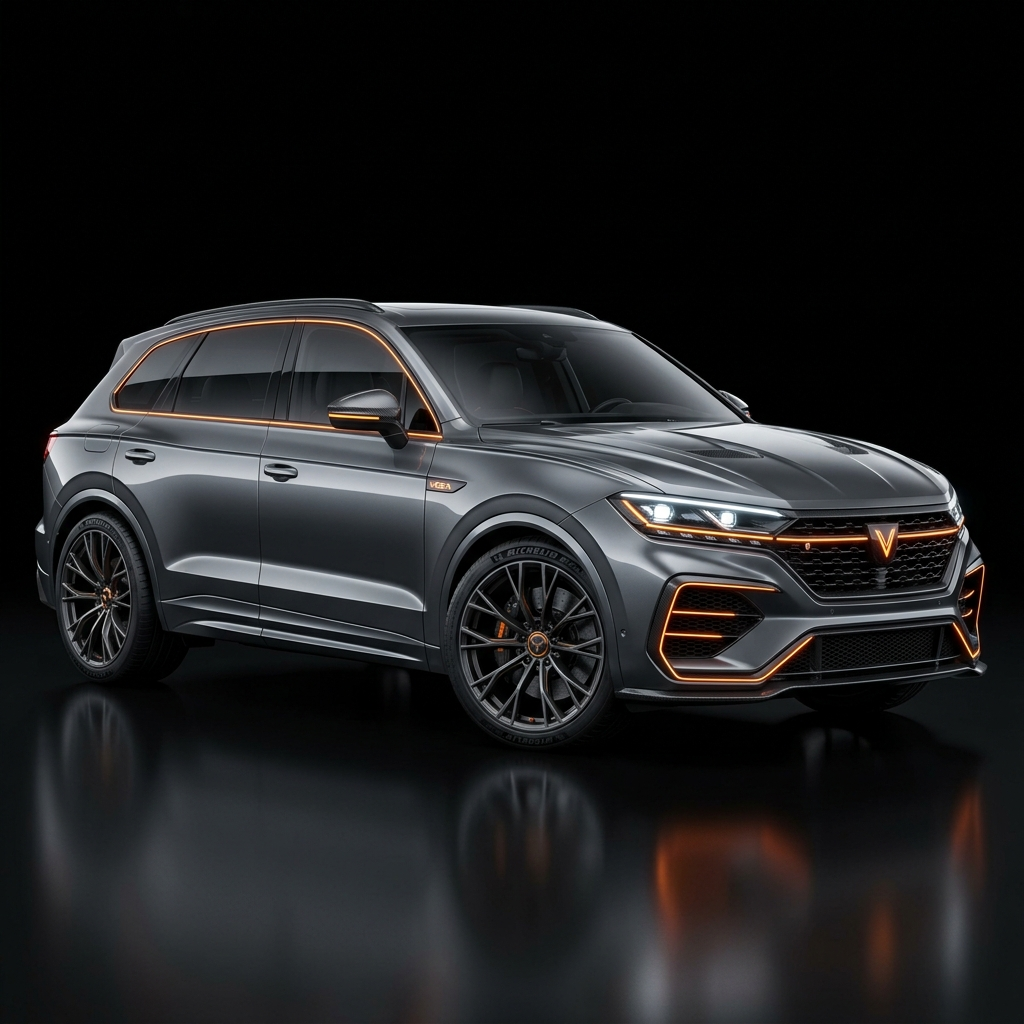
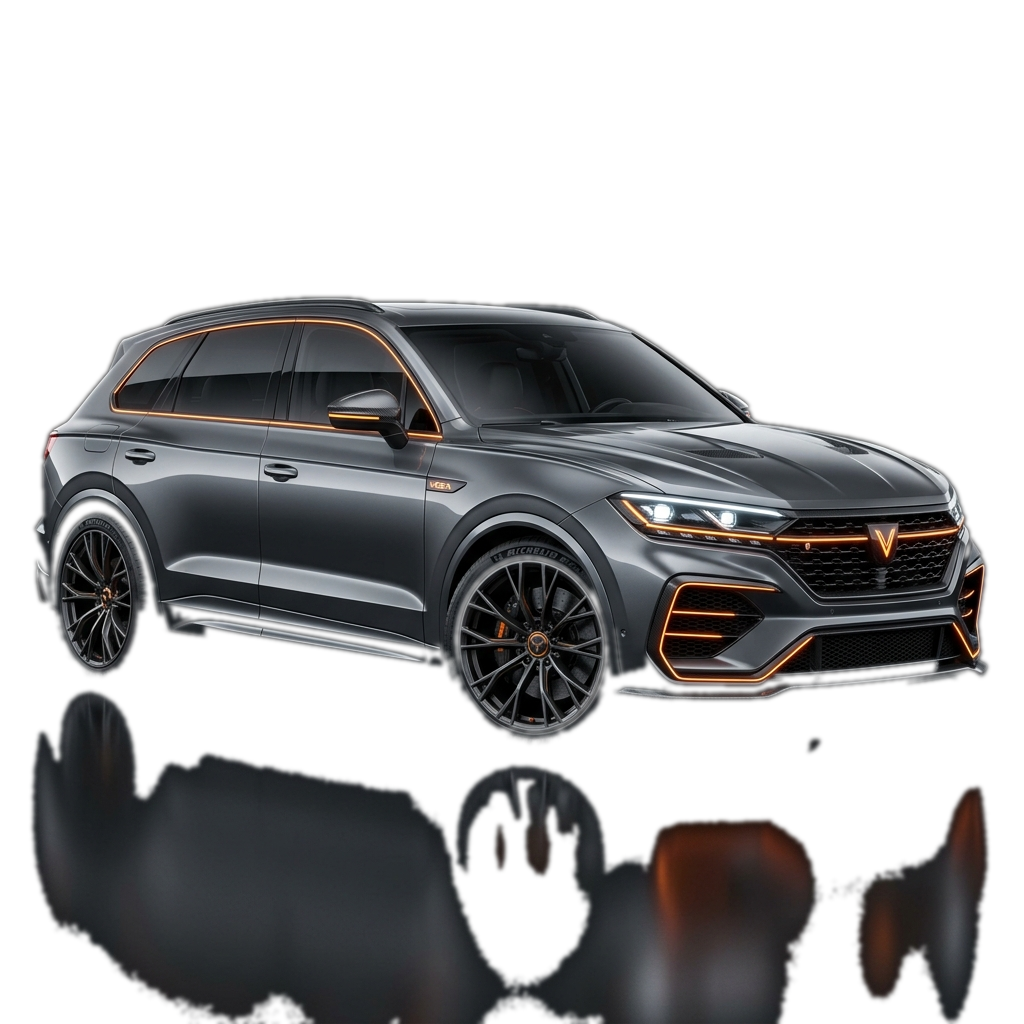
Convert vehicle and hero assets to transparent background PNGs

diff --git a/src/lib/supabase.js b/src/lib/supabase.js
@@ -3,7 +3,9 @@ import { createClient } from '@supabase/supabase-js';
 const supabaseUrl = import.meta.env.VITE_SUPABASE_URL;
 const supabaseKey = import.meta.env.VITE_SUPABASE_PUBLISHABLE_KEY;
 
-export const supabase = createClient(supabaseUrl, supabaseKey);
+export const supabase = (supabaseUrl && supabaseKey)
+  ? createClient(supabaseUrl, supabaseKey)
+  : null;
 
 const DOCUMENT_BUCKET = 'form-documents';
 
